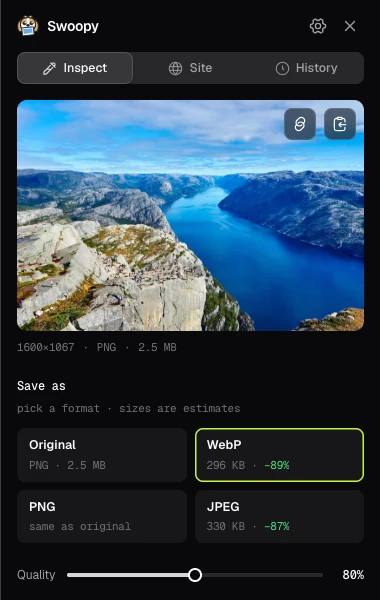
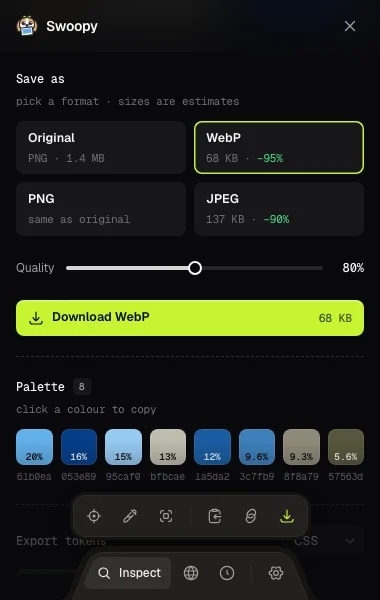
Swoopy 1.3.0: landing page, changelog and privacy text
- Changelog: 1.2.0 is live; add 1.3.0 (in review): Pick on page, Pick
  colour, Capture with watermark, dock layout, shortcuts window.
- Landing: Pick on page and Capture features, two new moments ("Which
  font is that?", capture a card), included list, FAQ on screenshots and
  shortcuts, read-and-change-data answer covers pick and capture.
- New panel screenshots from the 1.3.0 build.
- Privacy page text matches the extension's 1.3.0 privacy page.

diff --git a/app/swoopy/page.tsx b/app/swoopy/page.tsx
@@ -12,6 +12,8 @@ import {
   ClipboardText,
   ClockCounterClockwise,
   Coffee,
+  Crosshair,
+  Crop,
   FileZip,
   FrameCorners,
   Globe,
@@ -152,15 +154,49 @@ const scenarios = [
       </>
     ),
   },
+  {
+    tag: "Type",
+    title: "“Which font is that?”",
+    body: (
+      <>
+        The site lists five fonts and only one shows up. Press{" "}
+        <strong className="font-semibold text-foreground">Pick on page</strong>, hover the heading and see the one that actually rendered, with its size and color.
+      </>
+    ),
+  },
+  {
+    tag: "Sharing",
+    title: "Just that one card, please",
+    body: (
+      <>
+        Screenshots grab the whole screen and need cropping.{" "}
+        <strong className="font-semibold text-foreground">Capture</strong> the card you want, add a background and rounded corners, then paste it into Slack or a slide.
+      </>
+    ),
+  },
 ];
 
 const features = [
   {
+    icon: Crosshair,
+    title: "Pick anything on the page",
+    body: "Press Pick on page, or Alt+Shift+I, and hover. Swoopy outlines the image, SVG, video, gradient or text under your cursor, shows which font actually rendered, and lets you download it, copy it or Shift-click to collect a few into one ZIP. Need a color from the screen? Pick colour grabs it as HEX, RGB, HSL or OKLCH.",
+    image: "/swoopy/screens/pick-card.webp",
+    alt: "Hovering a photo with Pick on page: Swoopy's card shows it is a 266 × 168 JPG, with Download and Inspect buttons",
+  },
+  {
+    icon: Crop,
+    title: "Capture part of a page",
+    body: "Press Capture, or Alt+Shift+C, then click an element or drag a box. Add a background, padding, rounded corners and a shadow, then copy it or save it as PNG, WebP or JPEG. A small Swoopy watermark sits in the corner, and you can turn it off.",
+    image: "/swoopy/screens/capture-panel.webp",
+    alt: "A captured jellyfish photo on a green gradient background in Swoopy's capture editor, with background and padding options",
+  },
+  {
     icon: ArrowsInSimple,
     title: "Compress and convert, right here",
-    body: "No more uploading images to a compressor website. Choose to download the original, or export it as WebP, PNG or JPEG at the quality you pick, with each file's size shown first. A 2.5 MB PNG can go out as a 296 KB WebP. You can also right-click Download as WebP, or point and press Alt+Shift+W.",
+    body: "No more uploading images to a compressor website. Choose to download the original, or export it as WebP, PNG or JPEG at the quality you pick, with each file's size shown first. A 1.4 MB PNG can go out as a 68 KB WebP. You can also right-click Download as WebP, or point and press Alt+Shift+W.",
     image: "/swoopy/screens/convert-panel.webp",
-    alt: "Swoopy's Save as options: a 2.5 MB PNG shown as a 296 KB WebP, 89% smaller, with a quality slider",
+    alt: "Swoopy's Save as options: a 1.4 MB PNG shown as a 68 KB WebP, 95% smaller, with a quality slider",
   },
   {
     icon: Globe,
@@ -188,7 +224,7 @@ const features = [
     title: "Make any icon yours",
     body: "Recolor an SVG to your brand in seconds, try a palette, tweak the code, then export SVG, PNG, React or React Native.",
     image: "/swoopy/screens/svg-editor-panel.webp",
-    alt: "Swoopy's SVG editor recoloring a badge with the Sunset palette",
+    alt: "Swoopy's SVG editor showing an icon's colors, ready to change",
   },
   {
     icon: ClockCounterClockwise,
@@ -210,6 +246,10 @@ const included = [
   "Real GIFs and videos",
   "Copy any image as PNG",
   "Private history on device",
+  "Pick on page, see any font",
+  "Color picker for the screen",
+  "Capture part of a page",
+  "Shortcuts for every tool",
 ];
 
 const faqs = [
@@ -218,7 +258,9 @@ const faqs = [
   { q: "Can it download videos?", a: "Yes, when the video is a file. Right-click it and choose Download Video, Copy Video Address or Open Video in New Tab. Streaming players like YouTube don't play a single file, so there Swoopy saves the cover image and tells you." },
   { q: "Is it allowed to save images like this?", a: "Swoopy only saves what is already loaded on your screen, much like a screenshot but sharper. What you do with an image is up to you: respect the creator's rights and each site's rules. The Terms of Service has the details." },
   { q: "Does it send my data anywhere?", a: "No. Everything runs in your browser. There is no account, no analytics and no tracking, and your history never leaves your device." },
-  { q: "Why does Chrome say it can \"read and change data\" on websites?", a: "Chrome shows that warning for any extension that works on every site. Swoopy uses it only to look at the spot you right-click and find the image there, and, only when you open its Site tab, to read that page's images, colors, fonts and tags. It never changes the page." },
+  { q: "Why does Chrome say it can \"read and change data\" on websites?", a: "Chrome shows that warning for any extension that works on every site. Swoopy uses it only to look at the spot you right-click and find the image there, to show what's under your cursor while you pick, to take the screenshot when you capture, and, only when you open its Site tab, to read that page's images, colors, fonts and tags. It never changes the page." },
+  { q: "Can it take screenshots?", a: "Of part of a page, yes. Press Capture (or Alt+Shift+C), click an element or drag a box, frame it and copy or save it. The capture stays on your device: it's never uploaded or kept in your history." },
+  { q: "Are there keyboard shortcuts?", a: "Yes: Alt+Shift+I to pick on page, Alt+Shift+C to capture, Alt+Shift+S to save the image under your cursor and Alt+Shift+W to save it as WebP (Option+Shift on a Mac). Settings → Keyboard shortcuts lists them all and links to Chrome's page for changing them." },
   { q: "Which browsers does it work in?", a: "Chrome, and other browsers that install from the Chrome Web Store, such as Brave, Arc and Edge." },
   { q: "Is it really free?", a: "Yes, every feature, for everyone. If Swoopy saves your day, you can buy me a coffee, but it unlocks nothing extra." },
 ];
@@ -346,7 +388,7 @@ export default function SwoopyPage() {
           Swoopy fetches the images Chrome won&apos;t.
         </h1>
         <p className="mx-auto mt-4 max-w-xl text-lg text-muted-foreground">
-          That Instagram post. That Pinterest pin. That logo hiding in the code. If it&apos;s on your screen, right-click and Swoopy saves it, lets you export a lighter WebP, or breaks it down into colors you can use.
+          That Instagram post. That Pinterest pin. That logo hiding in the code. If it&apos;s on your screen, right-click and Swoopy saves it, lets you export a lighter WebP, or breaks it down into colors you can use. Hover anything to see its font, or capture part of the page as a tidy image.
         </p>
         <div className="mt-6 flex flex-wrap items-center justify-center gap-3">
           <InstallButton />
@@ -360,7 +402,7 @@ export default function SwoopyPage() {
         </div>
         <Image
           src="/swoopy/screens/right-click-menu.webp"
-          alt="Right-clicking a photo shows Swoopy's menu: Download, Download as WebP, Copy Image, Copy Image Address, Open Image in New Tab and Inspect Colors and Details, with the side panel open"
+          alt="Right-clicking a photo shows Swoopy's menu: Download, Download as WebP, Copy Image, Copy Image Address, Open Image in New Tab and Inspect Colors and Details, with the side panel showing the photo and its Save as options"
           width={1280}
           height={800}
           priority
@@ -380,7 +422,7 @@ export default function SwoopyPage() {
       {/* Real moments */}
       <Section id="moments" label="Real life, real saves" title="Moments where Swoopy just works">
         <p className="-mt-4 mb-6 text-muted-foreground">
-          Six times you&apos;d normally give up, take a blurry screenshot, or go digging in developer tools.
+          Eight times you&apos;d normally give up, take a blurry screenshot, or go digging in developer tools.
         </p>
         <div className="grid gap-4 sm:grid-cols-2">
           {scenarios.map((s) => (

diff --git a/public/swoopy/privacy.html b/public/swoopy/privacy.html
@@ -20,7 +20,7 @@
 
   <main>
     <h1>Privacy Policy</h1>
-    <p class="updated">Last updated: October 29, 2026</p>
+    <p class="updated">Last updated: November 10, 2026</p>
 
     <div class="callout">
       <strong>The short version:</strong> Swoopy runs entirely on your device. It has no accounts, analytics, ads or tracking, and it never sends your data to us or anyone else.
@@ -28,7 +28,7 @@
 
     <h2>What Swoopy accesses</h2>
     <ul>
-      <li><strong>The page you're on.</strong> For the quick save shortcuts (save, and save as WebP), Swoopy keeps track of where your cursor is on the page; that position is never recorded or sent. When you choose a Swoopy menu item or press a quick save shortcut, it reads the elements under your cursor to find the image. When you open the Site tab, it lists the page's images (their addresses, sizes and alt text). When you open its Brand, Design, Meta or Map sub-tabs, it reads the page's styles, fonts, head tags (title, description, icons, share-preview tags), logos and icons (including inline SVG markup and the colors they're drawn with), menu links, and which frameworks or tools the page appears to use. It reads only when you ask, keeps nothing after the panel closes and sends nothing anywhere. It doesn't read or record anything else on the page.</li>
+      <li><strong>The page you're on.</strong> For the quick save shortcuts (save, and save as WebP), Swoopy keeps track of where your cursor is on the page; that position is never recorded or sent. When you choose a Swoopy menu item or press a quick save shortcut, it reads the elements under your cursor to find the image. While you pick on the page (Pick on page, or Alt+Shift+I, until you press Esc), it reads what's under your cursor as you move: the image, gradient or text there, and for text its font, size and colours. When you capture part of a page (Capture, or Alt+Shift+C), Swoopy takes a screenshot of the visible tab, crops it to your selection and shows it in its panel; the screenshot stays on your device, and only leaves Swoopy if you choose Copy (to your clipboard) or Save (to your downloads). When you open the Site tab, it lists the page's images (their addresses, sizes and alt text). When you open its Brand, Design, Meta or Map sub-tabs, it reads the page's styles, fonts, head tags (title, description, icons, share-preview tags), logos and icons (including inline SVG markup and the colors they're drawn with), menu links, and which frameworks or tools the page appears to use. It reads only when you ask, keeps nothing after the panel closes and sends nothing anywhere. It doesn't read or record anything else on the page.</li>
       <li><strong>Images shown from the site.</strong> The Site tab shows the site's favicon, the Brand sub-tab shows its logos, and the Meta sub-tab shows its share-preview image. These load from the site itself, the same way your browser loads the gallery thumbnails. The Brand sub-tab's "Similar free" font suggestions are links to fonts.google.com that open only if you click them.</li>
       <li><strong>The image file.</strong> To download, copy, convert or inspect an image, Swoopy requests it from the website that hosts it, the same way your browser does when it shows the image. Converting to WebP, PNG or JPEG happens on your device.</li>
     </ul>
@@ -44,10 +44,10 @@
     <p>Swoopy keeps a list of the images (and short videos) you downloaded or inspected (image or video address, page title and page address, and for a video a small snapshot of the frame on screen when you saved it, or its poster image address, shown as its thumbnail; if neither is available, History loads the start of the video from its website to show its first frame; opening a saved video from History plays it in Swoopy's Inspect tab, loaded from its website) so you can find them again. You choose how many it keeps, up to 100, or turn it off in Settings. Small inline images, such as icons, are kept with their image data so they can be reopened. This list is stored only in your browser on this device, is never sent anywhere, and can be erased at any time with "Clear history" in Swoopy's Settings. Uninstalling Swoopy also deletes it.</p>
 
     <h2>Clipboard</h2>
-    <p>When you choose "Copy Image", Swoopy puts that image on your clipboard so you can paste it elsewhere. It only writes to the clipboard when you ask it to, and never reads from it.</p>
+    <p>When you choose a copy action ("Copy Image", Copy in a capture, Copy CSS, a colour value, a code snippet), Swoopy puts that on your clipboard so you can paste it elsewhere. It only writes to the clipboard when you ask it to, and never reads from it.</p>
 
     <h2>Your settings</h2>
-    <p>Your Swoopy settings (which items appear in the right-click menu, how much history to keep, the panel theme, where downloads are saved, smart file names, your "Save as" format and quality, and the code format you last chose when copying design tokens) are saved with Chrome's built-in sync storage, so they follow your Chrome profile if you use Chrome Sync.</p>
+    <p>Your Swoopy settings (which items appear in the right-click menu, how much history to keep, the panel theme, where downloads are saved, smart file names, your "Save as" format and quality, whether captures get the Swoopy watermark, and the code format you last chose when copying design tokens) are saved with Chrome's built-in sync storage, so they follow your Chrome profile if you use Chrome Sync.</p>
 
     <h2>If you support Swoopy</h2>
     <p>Donations go through Buy Me a Coffee, a separate service with its own <a href="https://buymeacoffee.com/privacy-policy" target="_blank" rel="noopener noreferrer">privacy policy</a>. Swoopy itself doesn't see your payment details. Buy Me a Coffee may share your name, email address and any message you write with us so we can say thanks; we use them only for that and never sell or share them.</p>

diff --git a/app/swoopy/releases.ts b/app/swoopy/releases.ts
@@ -15,9 +15,44 @@ export type Release = {
 
 export const releases: Release[] = [
   {
+    version: "1.3.0",
+    date: "November 10, 2026",
+    status: "In review",
+    summary: "Pick anything on the page to inspect it, pick colours from the screen, capture part of a page as a framed image, and a new dock layout.",
+    groups: [
+      {
+        title: "New",
+        items: [
+          "Pick on page (Alt+Shift+I): hover any image, SVG, video, gradient or text to inspect it, then download, copy or Shift-click to collect images into a ZIP.",
+          "Which font is that? Hover a heading and see the font that actually rendered, with its size, weight and colours.",
+          "Pick a colour anywhere on screen and copy it as HEX, RGB, HSL or OKLCH, with the nearest colour name.",
+          "Capture (Alt+Shift+C): click an element or drag a box, add a background, padding, rounded corners and a shadow, then copy or save it as PNG, WebP or JPEG.",
+          "A small Swoopy watermark on captures, which you can turn off in one click.",
+          "Settings → Keyboard shortcuts: every shortcut in one place, written the way your OS writes them.",
+        ],
+      },
+      {
+        title: "Improved",
+        items: [
+          "A new layout: tabs in a dock at the bottom, a floating tool dock on Inspect and a floating download bar on Site → Images.",
+          "Tooltips on every tool, with its shortcut.",
+          "Site → Images: the rescan button lights up when the page loads more images, and new ones are tagged NEW.",
+          "Long SVG colour lists show the first 10, with Show all.",
+        ],
+      },
+      {
+        title: "Fixed",
+        items: [
+          "Edit SVG works on inline SVGs that set their size in CSS.",
+          "Palettes for chart SVGs that draw with HTML inside.",
+        ],
+      },
+    ],
+  },
+  {
     version: "1.2.0",
     date: "October 29, 2026",
-    status: "In review",
+    status: "Live",
     summary: "A new Site tab that reads any page's images and design, Download as WebP, video downloads and a cleaner panel.",
     groups: [
       {
